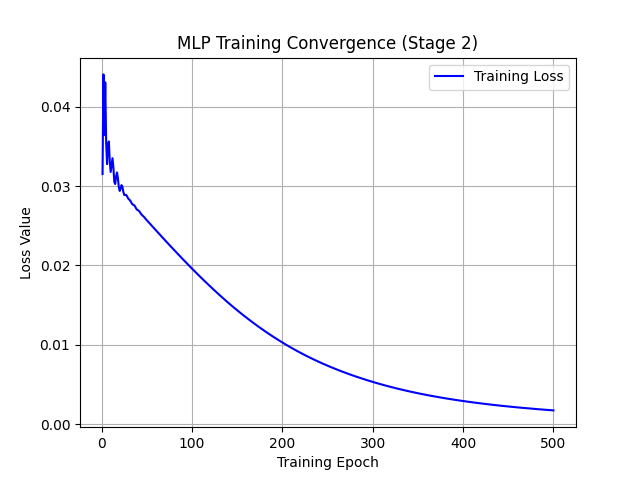
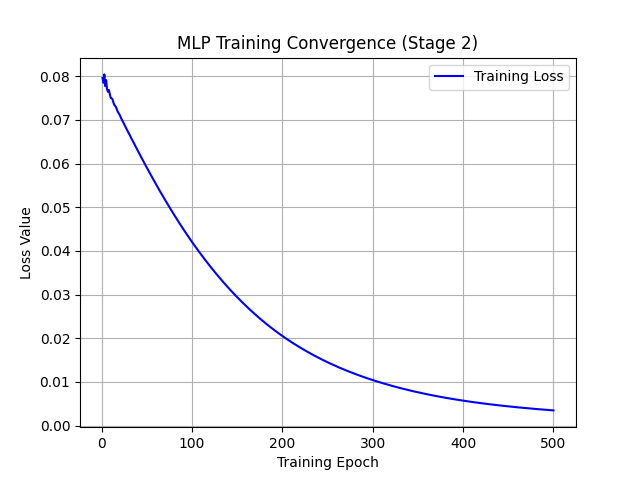
worse mlp model

diff --git a/local_code/stage_2_code/Method_MLP.py b/local_code/stage_2_code/Method_MLP.py
@@ -29,10 +29,10 @@ class Method_MLP(method, nn.Module):
         self.fc_layer_1 = nn.Linear(784, 128)
         # check here for nn.ReLU doc: https://pytorch.org/docs/stable/generated/torch.nn.ReLU.html
         self.activation_func_1 = nn.ReLU()
-        self.fc_layer_2 = nn.Linear(128, 64)
+        self.fc_layer_2 = nn.Linear(128, 10)
         # check here for nn.Softmax doc: https://pytorch.org/docs/stable/generated/torch.nn.Softmax.html
         self.activation_func_2 = nn.ReLU()
-        self.fc_layer_3 = nn.Linear(64, 10)
+
 
     # it defines the forward propagation function for input x
     # this function will calculate the output layer by layer
@@ -41,12 +41,11 @@ class Method_MLP(method, nn.Module):
         '''Forward propagation'''
         # hidden layer embeddings
         h = self.activation_func_1(self.fc_layer_1(x))
-        h = self.activation_func_2(self.fc_layer_2(h))
         # outout layer result
         # self.fc_layer_2(h) will be a nx2 tensor
         # n (denotes the input instance number): 0th dimension; 2 (denotes the class number): 1st dimension
         # we do softmax along dim=1 to get the normalized classification probability distributions for each instance
-        y_pred = self.fc_layer_3(h)
+        y_pred = self.fc_layer_2(h)
         return y_pred
 
     # backward error propagation will be implemented by pytorch automatically

diff --git a/script/stage_2_script/script_mlp.py b/script/stage_2_script/script_mlp.py
@@ -48,10 +48,7 @@ if 1:
     # Save to results folder
     plt.savefig('./result/stage_2_result/learning_curve.png') 
     plt.show()
-    
-    # Returns a dictionary of metrics
-    metrics = setting_obj.load_run_save_evaluate()
-    
+
     print('************ Overall Performance ************')
     for metric_name, value in metrics.items():
         print(f'{metric_name}: {value}')
